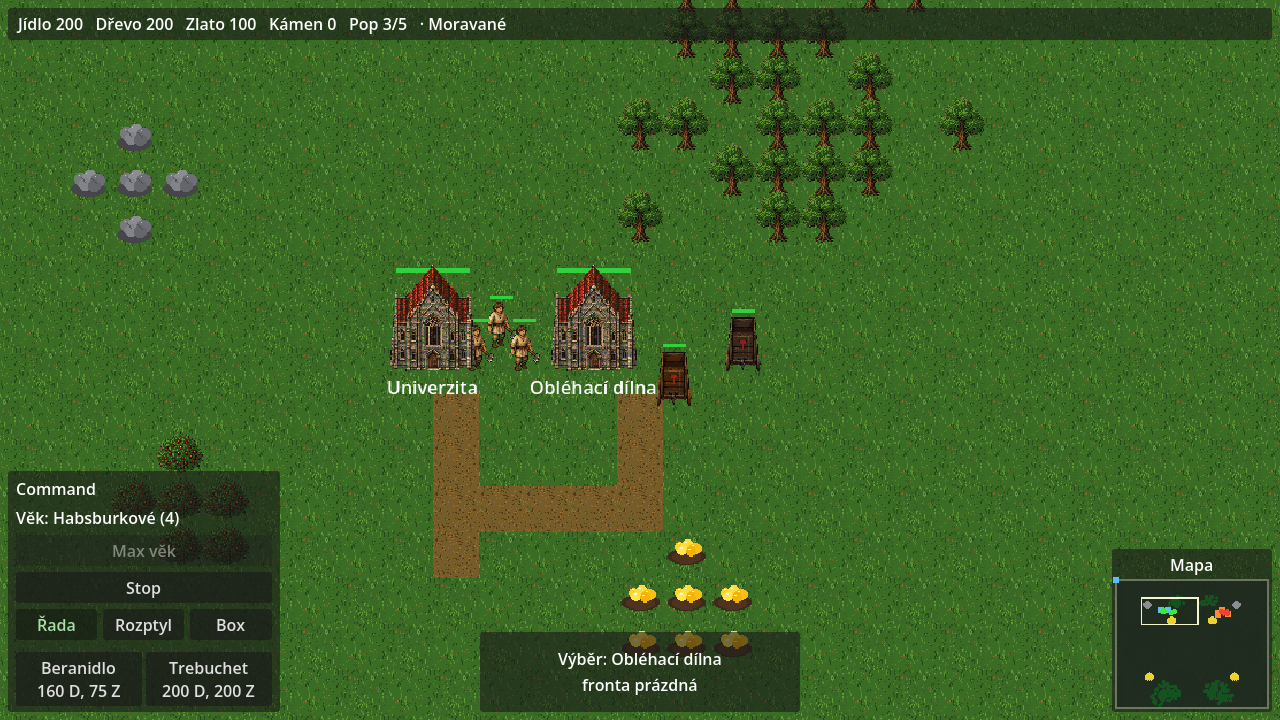
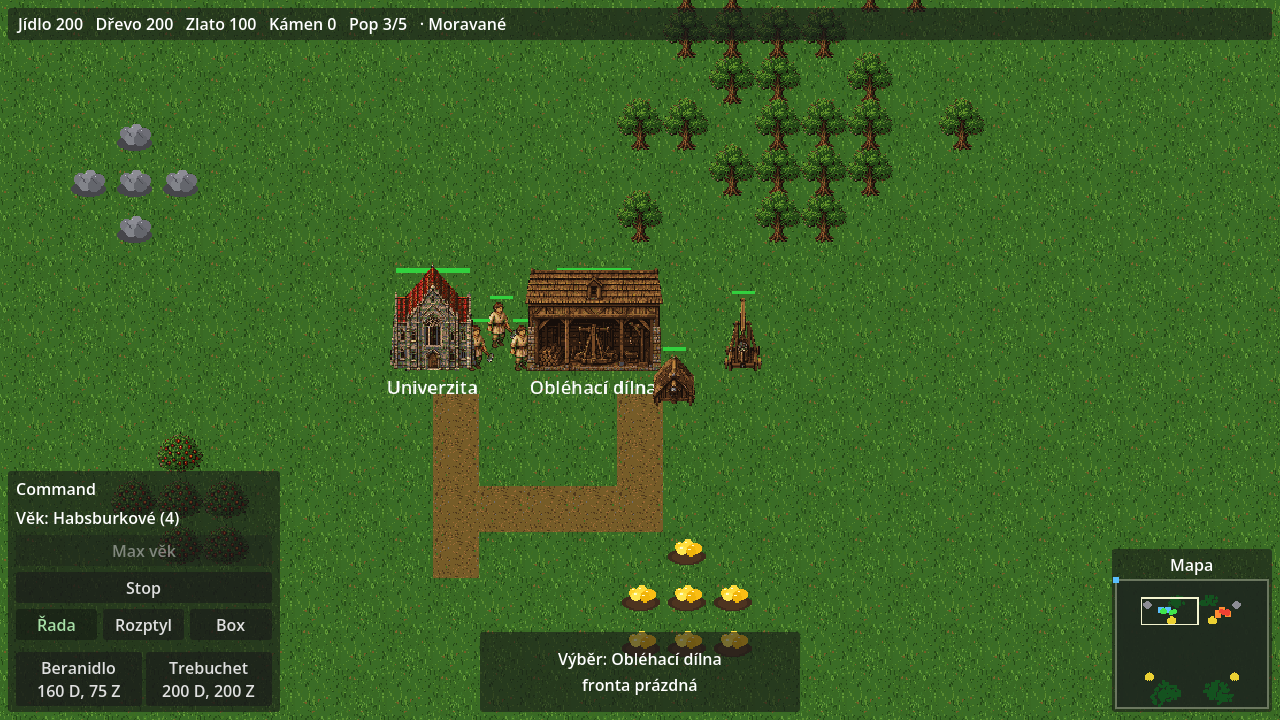
T-23: wire finished siege-v1 sprites for workshop, ram, trebuchet. (#32)
Replace placeholders with PR #10 pipeline art (120×90 workshop, 48×45 ram,
56×64 trebuchet facings). Feet-centred anchors; trebuchet unpack uses subtle
offset/modulate on packed frames. Update ART.md + siege.png screenshot.

Changed region(s): [[0.4062, 0.3667, 0.5938, 0.5806]]

diff --git a/docs/ART.md b/docs/ART.md
@@ -29,6 +29,9 @@ Production PNGs live under `assets/sprites/{buildings,units,resources,terrain,fx
 | `assets/sprites/resources/stone_mine.png` | 40×27 | stone | ResourceNode | |
 | `assets/sprites/fx/arrow.png` | 24×4 | tip faces right | Projectile | rotated by aim |
 | `assets/sprites/terrain/grass_1.png` / `grass_2.png` / `dirt.png` | 40×40 | TileMapLayer | Map.gd | random grass + dirt near Radnice |
+| `assets/sprites/buildings/siege_workshop.png` | 120×90 | footprint 80×80 | Obléhací dílna / SiegeWorkshop | wired (T-23) |
+| `assets/sprites/units/ram_{down,left,right,up}.png` | 48×45 | collision ~20×20 | Beranidlo / Ram | facing from velocity |
+| `assets/sprites/units/trebuchet_{down,left,right,up}.png` | 56×64 | collision ~22×22 | Trebuchet | packed look; unpack = offset/modulate |
 
 ## Integration (done)
 
@@ -60,8 +63,18 @@ Units: collision 16×16, selection radius 14
 - terrain tiles: hand-authored 40×40 wrap-safe grass (two variants) and dirt, using the shared leaf / dirt palette colours. Generated squares were used only as colour reference; they were not tileable.
 - Source sheets were generated as 'pixel-art look' JPEGs on magenta, then keyed with a tolerant pink threshold, defringed, cropped, and nearest-neighbour scaled to the footprint width (or 40 px body height for units).
 - A shared 32-colour palette is applied with no dithering. Vegetation, skin, metal, gold, and target red/blue are anchored so they are not swallowed by the brown building colours.
+## T-23 siege sprites (siege-v1)
+
+Finished age-4 siege art from the original PR #10 pipeline (magenta key → defringe → crop → NN scale → shared 32-colour palette). No procedural script drawing.
+
+- **siege_workshop** 120×90 — timber workshop on stone base, shingle roof, open bay; bottom-centred; feet/anchor via `Building._anchor_sprite` (`offset.y = footprint.y/2 - h/2`).
+- **ram** 48×45 ×4 facings — low closed gabled shed with iron-capped ram head; `_left` / `_right` mirrored from sheet; feet-centred via `Unit._anchor_sprite_to_feet`.
+- **trebuchet** 56×64 ×4 facings — packed/transport look (arm raised) for all states. Unpacked uses the same frames with a subtle warm modulate + 4 px lift (no separate unpacked sheet yet).
+
+Import source branch: `art/siege-v1` (`art_import/sprites_siege.tar.gz` sha256 `16661f7b…fc5779`). Screenshot: `docs/screenshots/siege.png`.
+
 ## What this pack does not include
 
 - Walk-cycle frames (only one pose per facing).
 - Dedicated enemy-team recolours (enemy units/buildings use a light modulate tint).
-- Farm plots, walls, or later-age buildings.
+- Dedicated trebuchet unpacked / firing frames (T-23 uses packed art + subtle deploy cue).
